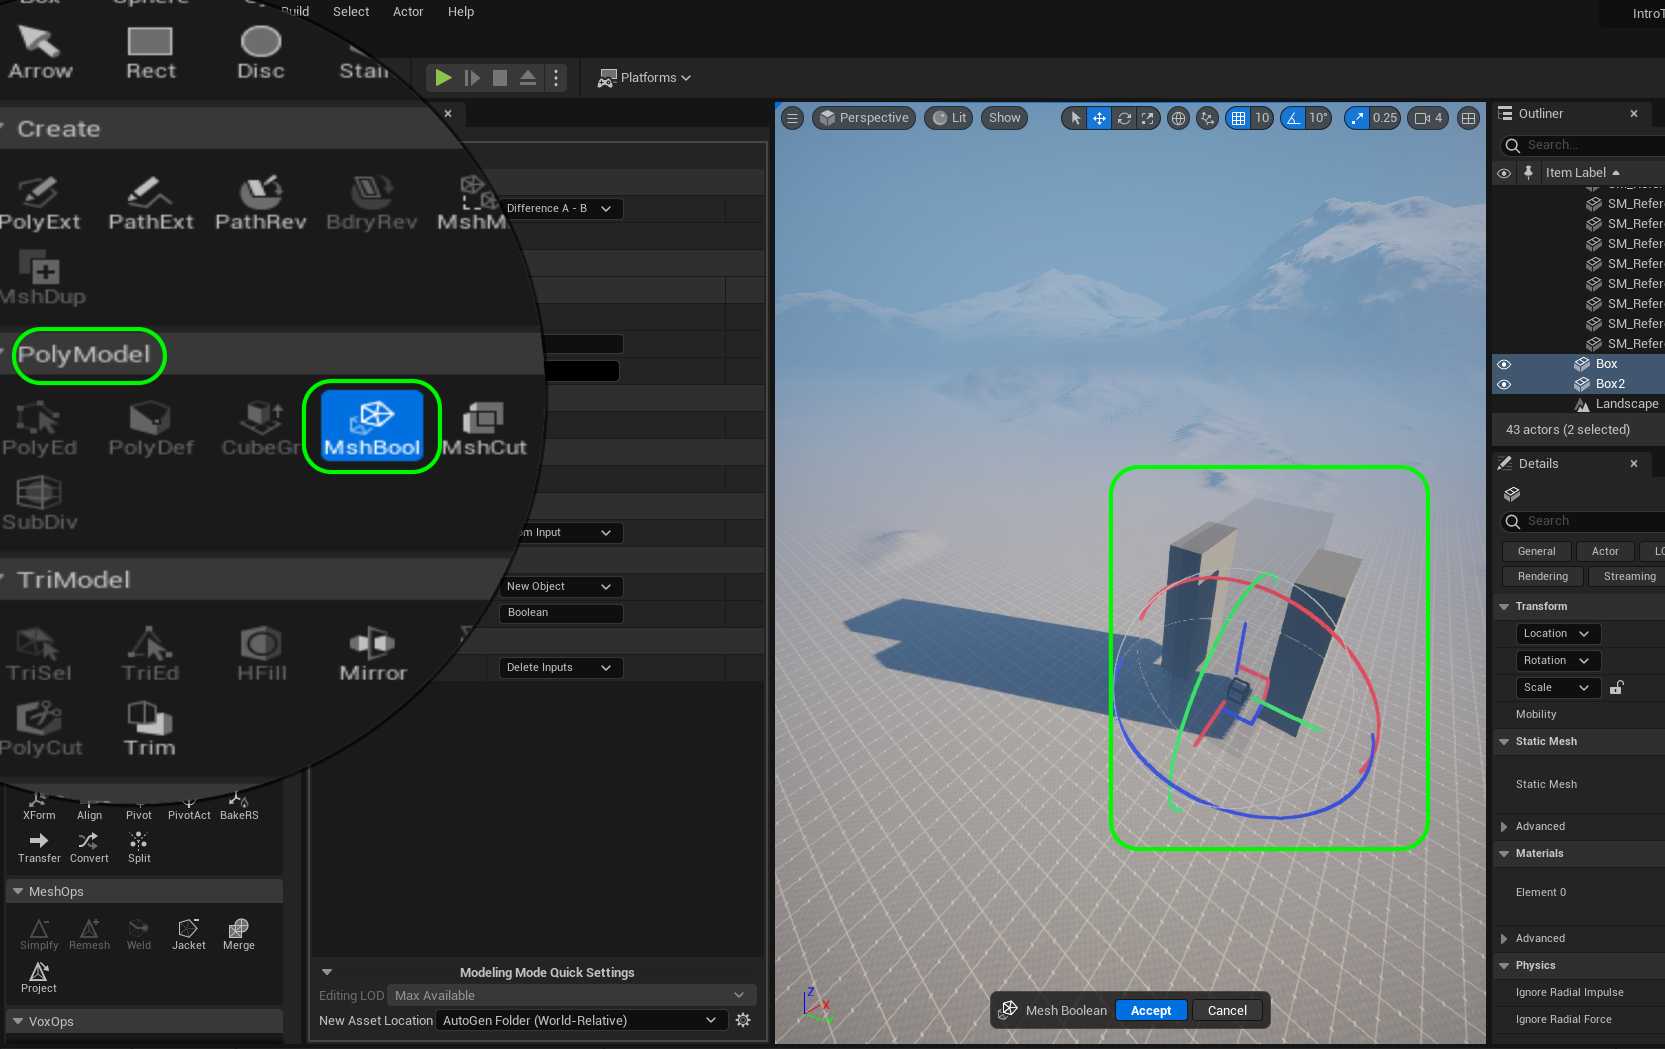
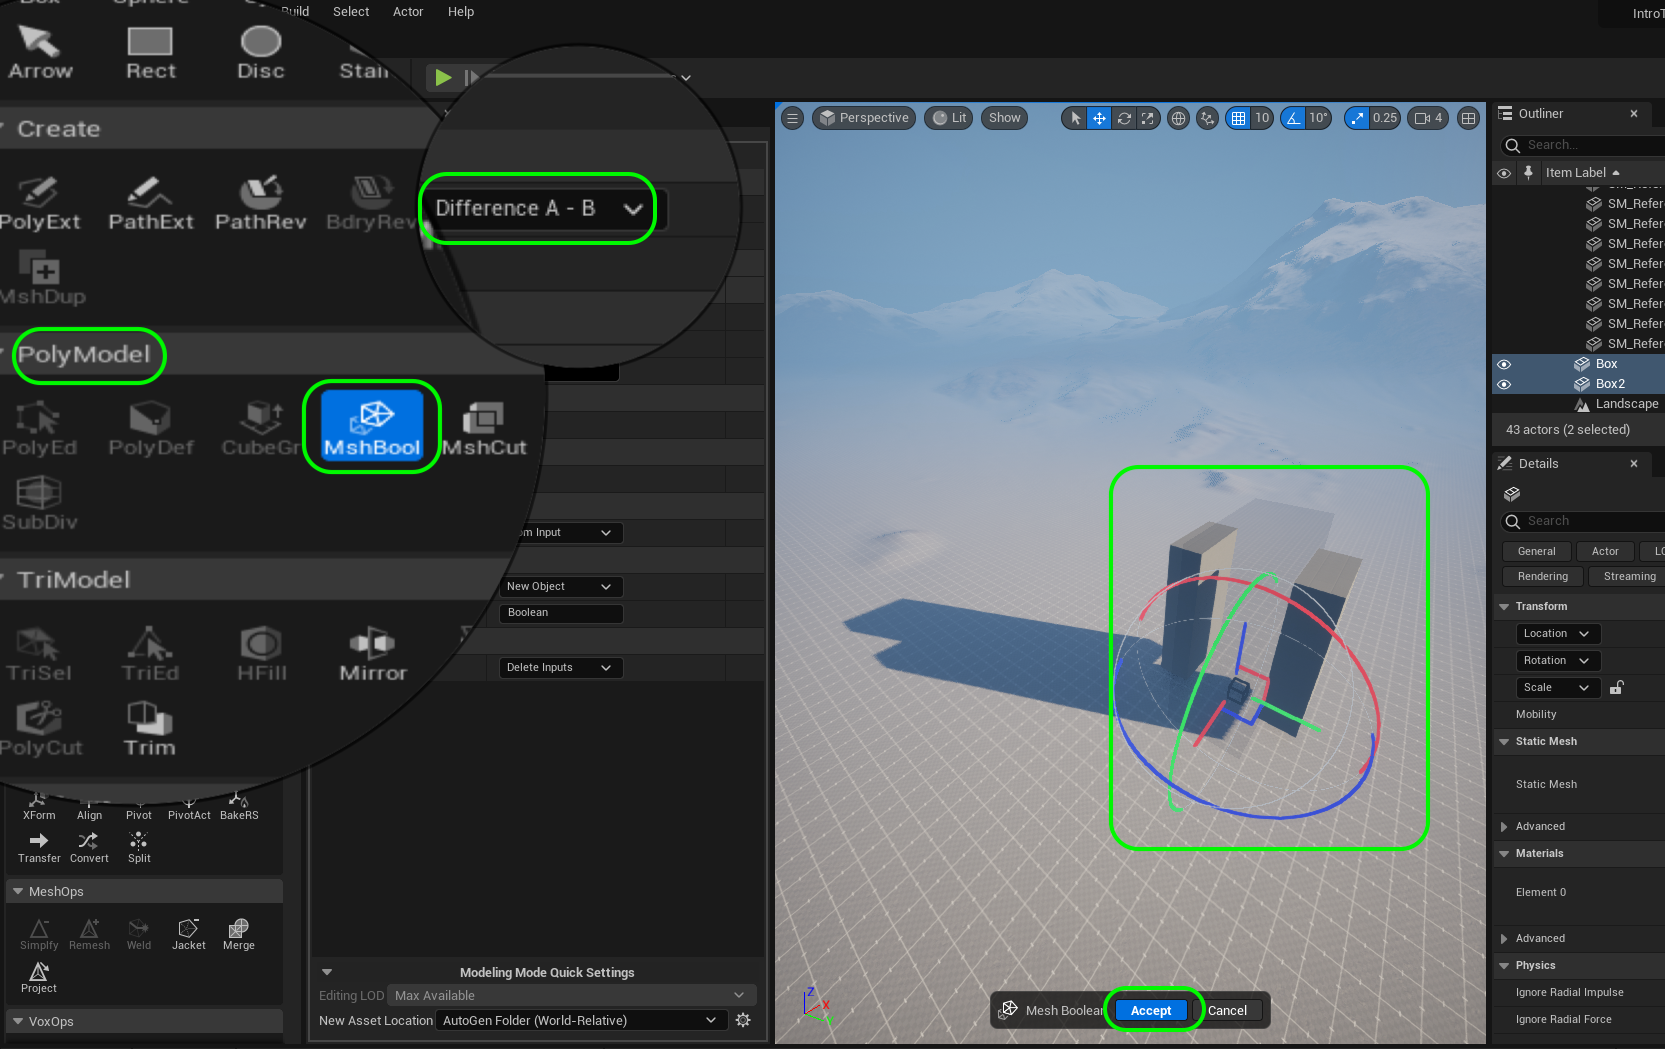
updating ld to ue5

diff --git a/double-jump/README.md b/double-jump/README.md
@@ -39,15 +39,15 @@ Lets create a second box that we will use to cut a hole in the existing one. Go 
 
 ##### `Step 4.`\|`UE5LD`|:small_blue_diamond: :small_blue_diamond: :small_blue_diamond: :small_blue_diamond:
 
-Place smaller box through bigger box.  Use the top, side and front views to center it through the shape.
+Place smaller box through bigger box.  Use the top, side and front views to center it through the shape. You will want the smaller box to cut a hole through the middle of the bigger one.  This will create our jump platform.  I have adjusted it to a meter in height.
 
-![cneter small box in larger one](images/topFrontView.png)
+![center small box in larger one](images/topFrontView.png)
 
 ![](../images/line2.png)
 
 ##### `Step 5.`\|`UE5LD`| :small_orange_diamond:
 
-
+Select both boxes in the scene. Now go to the **PolyModel** group and select **MshBool** (Mesh Boolean).  This will allow us to subtract one shape from the other.  Depending on the order you clicked them on it will be either **Difference A-B** or **Difference B-A**. When you are ready, press the <kbd>Accept</kbd> button to create a new shape. 
 
 ![press end key to lock to ground](images/meshBool.png)
 
